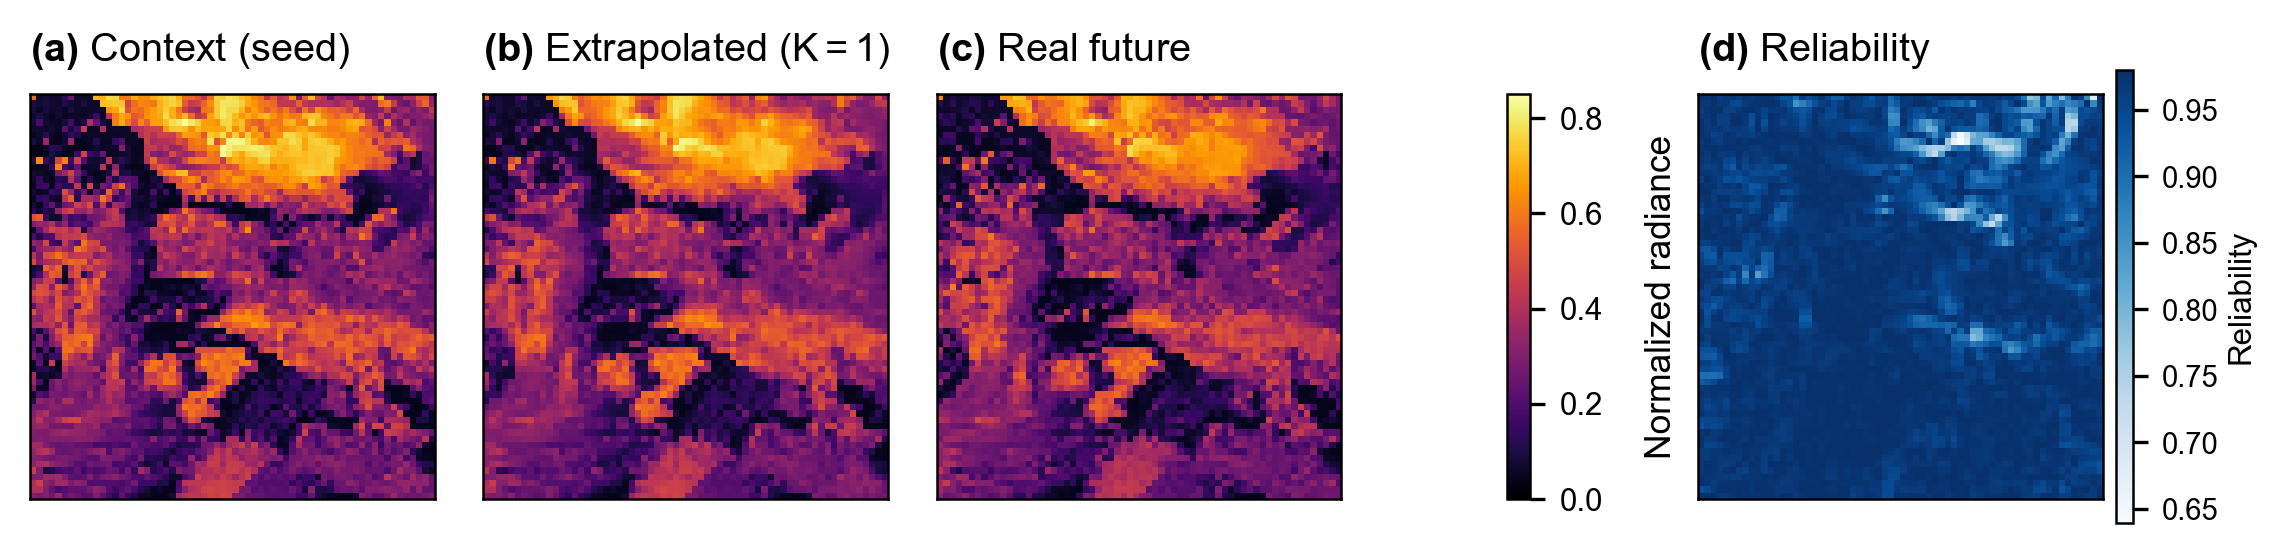
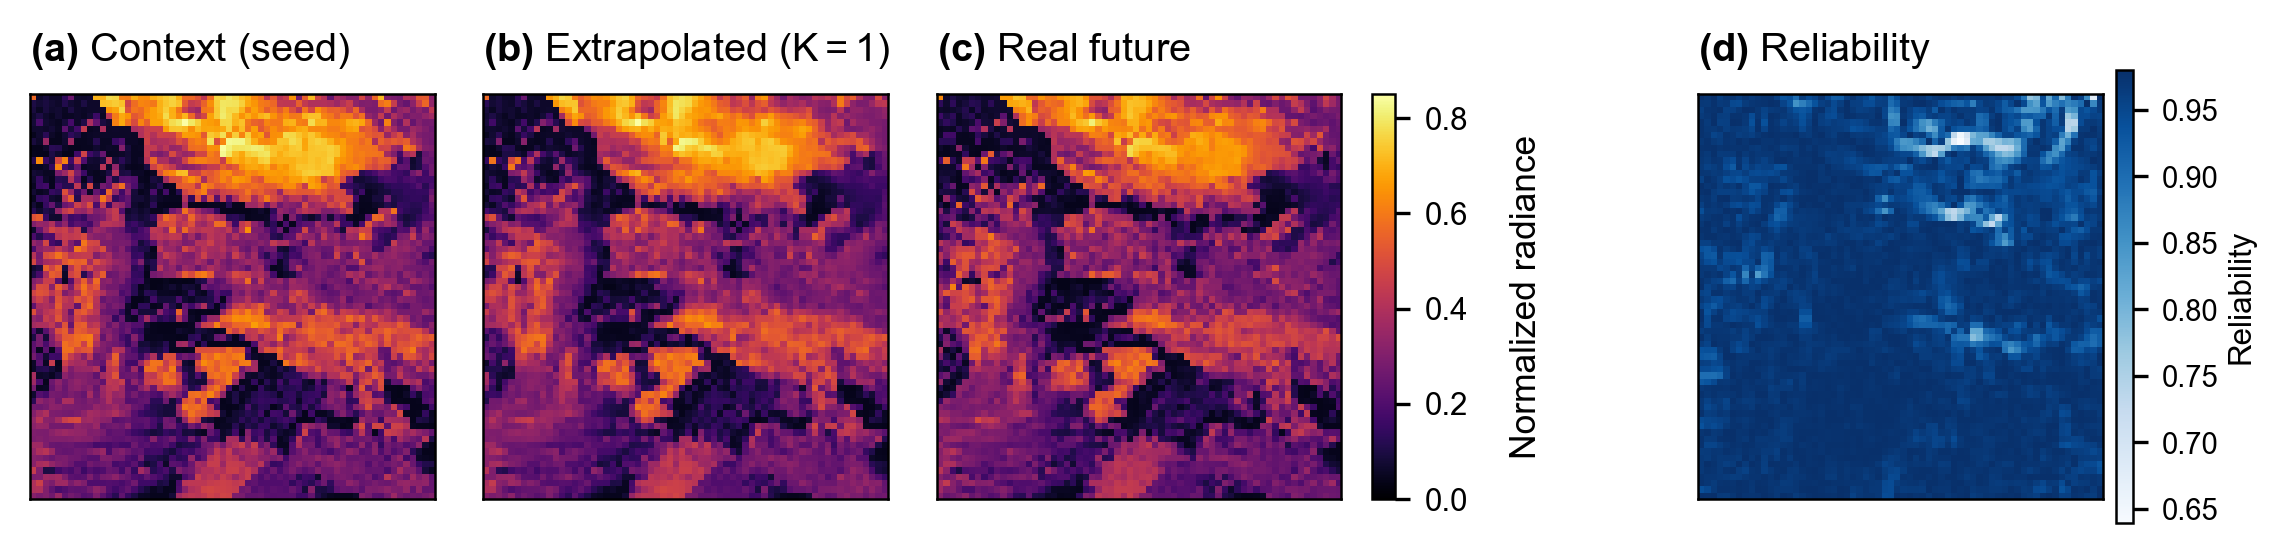
viz(essd-fig5a): radiance colorbar shifted one image-width/3 toward (c)

Changed region(s): [[0.5904, 0.1529, 0.7457, 0.9173], [0.7147, 0.2446, 0.7457, 0.3058]]

diff --git a/scripts/plot_essd_fig5a_sequence.py b/scripts/plot_essd_fig5a_sequence.py
@@ -112,7 +112,10 @@ def main() -> int:
     pos_c = axs[2].get_position()
     pos_d = axs[3].get_position()
     gap_mid = (pos_c.x1 + pos_d.x0) / 2
-    cb_ax = fig.add_axes([gap_mid - 0.006, pos_c.y0,
+    # Shift the whole radiance-bar stack a third of an image width toward (c)
+    # (per user request) while keeping clear air on both sides.
+    cb_x = gap_mid - 0.006 - pos_c.width / 3.0
+    cb_ax = fig.add_axes([cb_x, pos_c.y0,
                           0.011, pos_c.height])
     cbar = fig.colorbar(h, cax=cb_ax)
     cbar.set_label("Normalized radiance", fontsize=TEXT_SIZE_PT,
